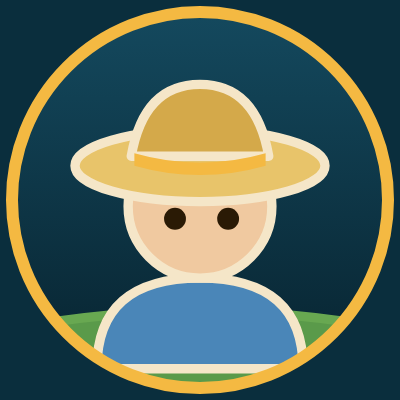
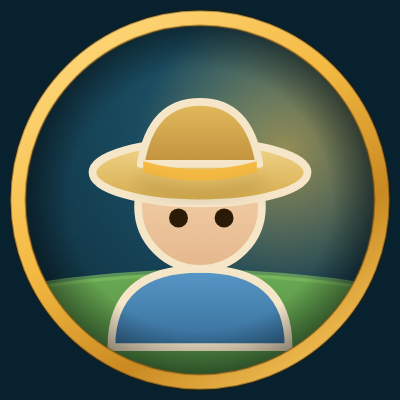
feat(brand): rebuild the X assets with light, depth and the farm in them
The first pass was flat, and flat is what makes vector art read as clipart:
every surface one colour, three ridges stacked with no air between them, and
a large fill with no surface on it. Fixed at the cause rather than decorated
over — gradients on every ridge and garment, a warm glow where the low sun
is, haze along each crest, a slight blur on the far layers, and film grain
over the whole thing.

The header now has the farm in it: the house, barn and windmill from
STRUCTURES with their windows lit, and fenced plots either side. The earlier
drafts were hills and conifers, which could have belonged to any game — that
was the real reason they looked generic, not the polish.

Three faults that only rendering could have found:

- The windmill's sails were four arms at the cardinal angles, which overlap
  into a plain cross and read as a telegraph pole. They are at 45 degrees
  now, with blades.
- The foreground grass was an even comb of identical blades, which came out
  as a hairy black band rather than a meadow. Irregular clumps, wide height
  range.
- The sun's rays crossed the whole sky and stopped reading as light,
  reading as banding instead. Short, faint, and blurred now.

The avatar gets the same treatment plus room to breathe: the figure sits
inside a margin rather than filling the disc, because space between the brim
and the ring is most of what separates an emblem from a sticker.

A night variant of the header is kept beside the dusk one.

diff --git a/docs/brand/X.md b/docs/brand/X.md
@@ -27,6 +27,23 @@ inkscape docs/brand/x-header.svg -w 1500 -h 500 -o docs/brand/x-header.png
 Check the result at the size it will be seen — the avatar is about 48px in a
 timeline, and the header's bottom-left disappears under the avatar.
 
+## What makes these not look cheap
+
+Flat vector art reads as clipart for three reasons, and all three are fixed
+here rather than decorated over:
+
+- **Every surface was one colour.** Now light lands on things: a warm glow
+  where the low sun is, gradients down each ridge and each garment, a ring
+  with a lit top edge and a dark underside so it reads as metal.
+- **No air between the layers.** Haze along each crest and a slight blur on
+  the far ones is what turns three stacked shapes into distance.
+- **No surface.** A film-grain overlay at 7–10% is the cheapest thing that
+  stops a large flat fill looking like a fill.
+
+The header also has the **farm in it** — the house, barn and windmill from
+`STRUCTURES`, with their windows lit, and fenced plots either side. Earlier
+drafts were hills and conifers, which could have belonged to any game.
+
 ## Two things the layout is built around
 
 **X crops the avatar to a circle.** The medallion is inset by 4% rather than
